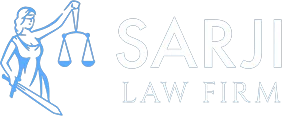
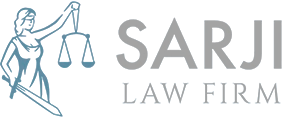
edit sponsor page

diff --git a/src/app/sponsor/page.tsx b/src/app/sponsor/page.tsx
@@ -15,41 +15,37 @@ const Sponsors = () => {
         pageName="Our Sponsors"
         description="We are grateful for the support of our sponsors since their generosity helps us to continue to compete in FTC (FIRST Tech Challenge) and provide students with hands-on experience using robotics and engineering."
       />
-
       <section className="pb-[120px] pt-[120px]">
         <div className="container">
           <div className="-mx-4 flex flex-wrap justify-center">
             <div className="list min-w-80">
               <li className="gssm mt-5 flex justify-center gap-20 flex-wrap">
-                <div className="gssm w-64 rounded-lg bg-white">
-                  <a className="w-90" href="https://scgssm.org" target="_blank">
+                <div className="gssm w-64 invert brightness-0 rounded-lg">
+                  <a href="https://www.scgssm.org" target="_blank">
                     <img
-                      src="/images/brands/gssm.png"
-                      className="h-32 rounded-xl bg-white p-7"
-                    />
+                        src="/images/brands/gssm.png"
+                        className="h-32 rounded-xl invert brightness-0 px-5 py-4"/>
                   </a>
                 </div>
-                <div className="foundation w-64 bg-white rounded-lg">
+                <div className="foundation w-64 invert brightness-0 rounded-lg">
                   <a href="https://www.scgssm.org/who-we-are/gssm-foundation" target="_blank">
-                    <img 
-                      src="/images/brands/foundation.png" 
-                      className="h-32 rounded-xl bg-white px-5 py-4"/>
+                    <img
+                        src="/images/brands/foundation.png"
+                        className="h-32 rounded-xl invert brightness-0 px-5 py-4"/>
                   </a>
                 </div>
-                <div className="scadmin w-64 bg-white flex justify-center rounded-lg">
+                <div className="scadmin w-64 invert brightness-0 rounded-lg">
                   <a href="https://www.admin.sc.gov/" target="_blank">
                     <img
-                      src="/images/brands/scadmin.png"
-                      className="h-32 rounded-xl bg-white"
-                    />
+                        src="/images/brands/scadmin.png"
+                        className="h-32 rounded-xl invert brightness-0 px-5 py-4"/>
                   </a>
                 </div>
-                <div className="sarjilaw w-64 bg-white flex justify-center rounded-lg">
+                <div className="sarjilaw w-64 invert brightness-0 rounded-lg">
                   <a href="https://sarjilawfirm.com" target="_blank">
                     <img
-                      src="/images/brands/sarjilaw.png"
-                      className="h-32 rounded-xl bg-white"
-                    />
+                        src="/images/brands/sarjilaw.png"
+                        className="h-32 rounded-xl invert brightness-0 px-5 py-4"/>
                   </a>
                 </div>
               </li>
